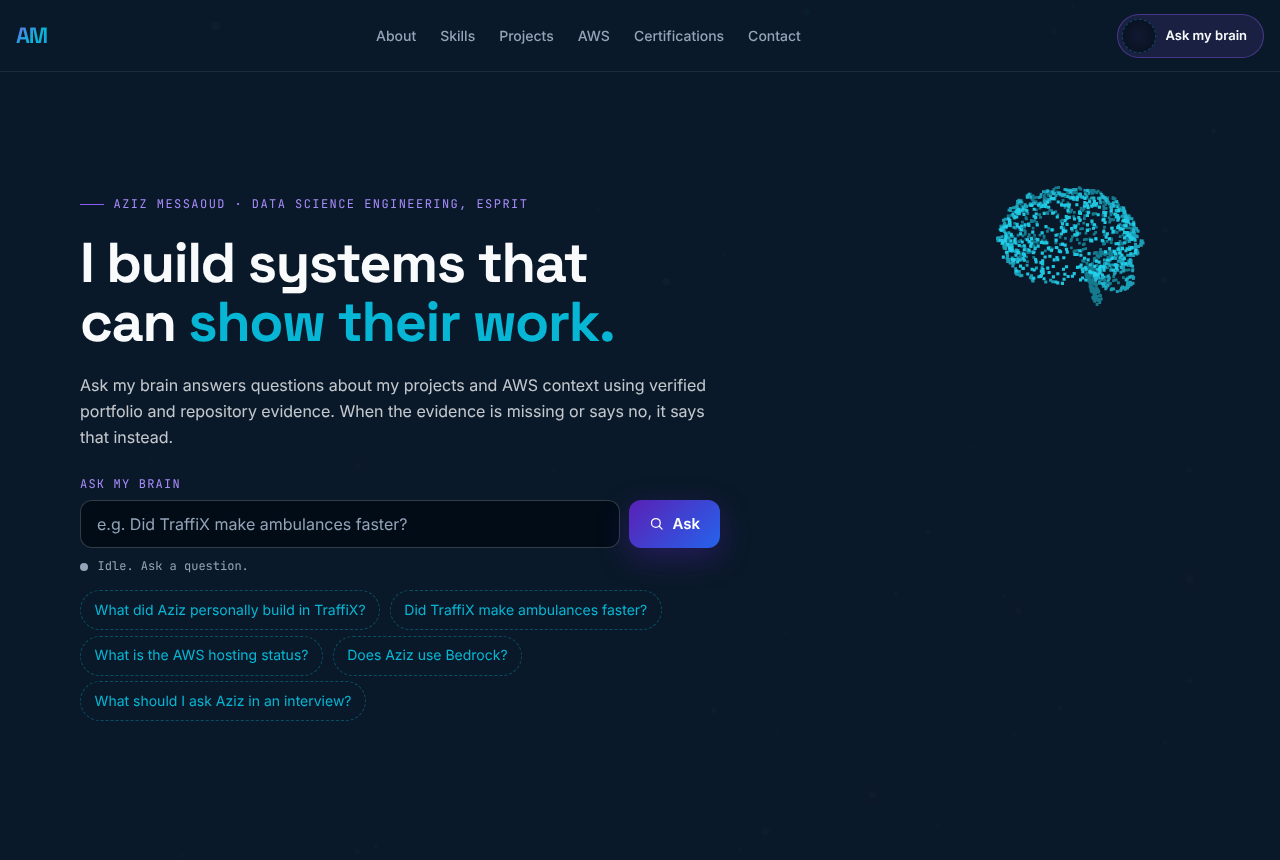
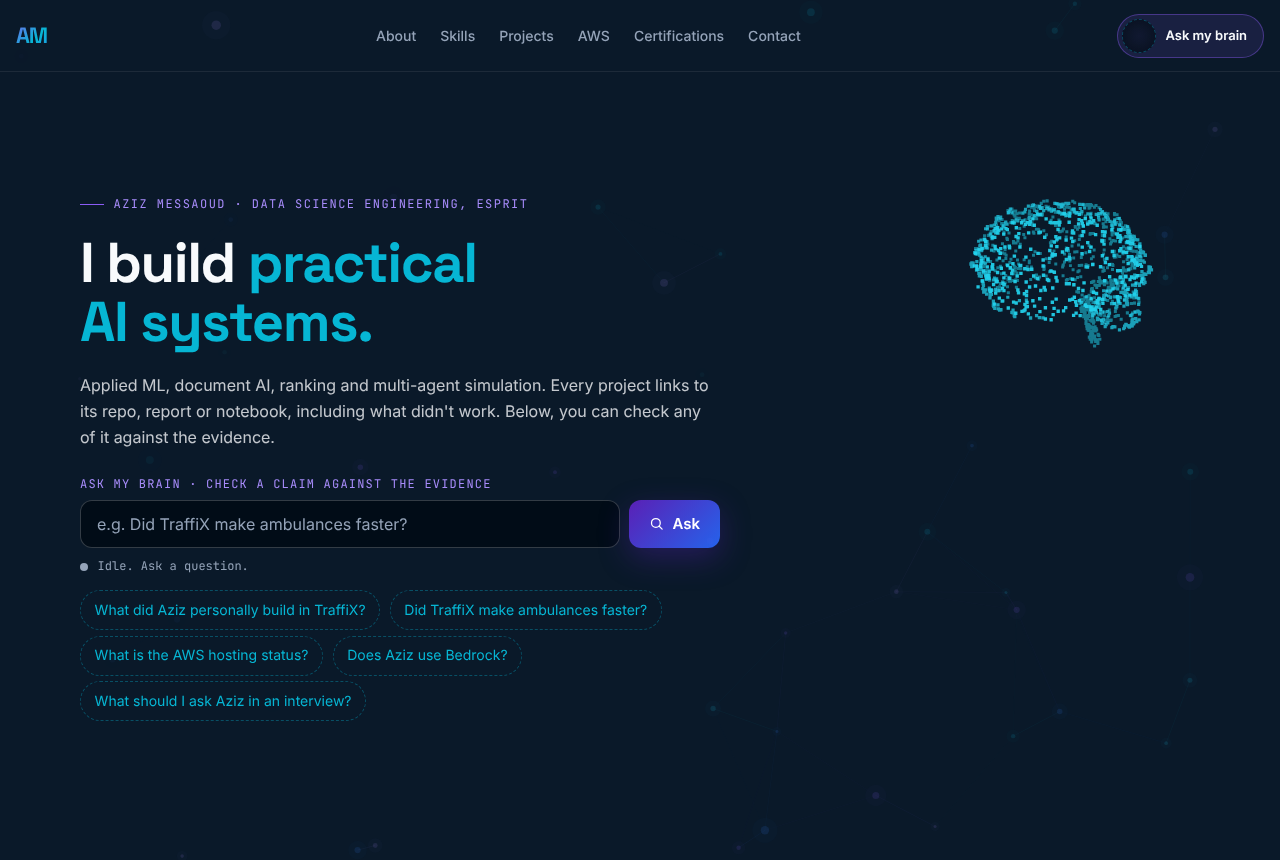
Hero leads with what I do and the evidence trail; hero text no longer selects when interacting
Claude-Session: https://claude.ai/code/session_01CPfrMnpMwkZ1yM78Z6sMH9

diff --git a/tests/e2e/site.spec.ts b/tests/e2e/site.spec.ts
@@ -386,8 +386,8 @@ const status = (page: Page) => page.locator(".ask-status");
 
 test("hero: the first screen says what the site is and offers the question box", async ({ page }) => {
   await page.goto("/");
-  await expect(page.getByRole("heading", { level: 1 })).toContainText("I build systems that can show their work.");
-  await expect(page.locator(".hero-lead")).toContainText("verified portfolio and repository evidence");
+  await expect(page.getByRole("heading", { level: 1 })).toContainText("I build practical AI systems.");
+  await expect(page.locator(".hero-lead")).toContainText("including what didn't work");
   for (const name of ["About", "Skills", "Projects", "Contact"]) await expect(page.locator("nav[aria-label=Main] a", { hasText: new RegExp(`^${name}$`) })).toBeAttached();
   await expect(page.locator("#hero-ask")).toBeVisible();
 });
@@ -500,5 +500,17 @@ test("the AWS section says not deployed and lists services as planned only", asy
   for (const svc of ["Amazon Bedrock", "AWS Lambda", "Amazon API Gateway"]) await expect(sec).toContainText(svc);
   await expect(sec.getByRole("heading", { name: "Verified" })).toBeVisible();
   await expect(sec.locator("a[href$='amplify.yml']")).toHaveCount(1);
+});
+
+test("interacting with the animation never highlights the hero text, but the question box stays selectable", async ({ page }, info) => {
+  test.skip(info.project.name === "mobile", "mouse interaction");
+  await page.goto("/");
+  await page.waitForTimeout(1200);
+  await page.locator(".hero-h1").dblclick();
+  await page.mouse.move(100, 300); await page.mouse.down(); await page.mouse.move(600, 420, { steps: 8 }); await page.mouse.up();
+  expect(await page.evaluate(() => String(getSelection()))).toBe("");
+  await page.locator("#hero-ask").fill("hello brain");
+  await page.locator("#hero-ask").selectText();
+  expect(await page.evaluate(() => (document.activeElement as HTMLInputElement).selectionEnd! - (document.activeElement as HTMLInputElement).selectionStart!)).toBe(11);
 });
 

diff --git a/src/sections/Hero.tsx b/src/sections/Hero.tsx
@@ -16,10 +16,10 @@ export default function Hero({ mind, setMind, reduced, onLayout }: Props) {
       <div className="hero-stage">
         <div className="hero-inner">
           <p className="eyebrow">Aziz Messaoud · Data Science Engineering, ESPRIT</p>
-          <h1 id="hero-title" className="hero-h1">I build systems that can <span className="hl">show their work.</span></h1>
+          <h1 id="hero-title" className="hero-h1">I build <span className="hl">practical AI systems.</span></h1>
           <p className="hero-lead">
-            Ask my brain answers questions about my projects and AWS context using verified portfolio and repository evidence.
-            When the evidence is missing or says no, it says that instead.
+            Applied ML, document AI, ranking and multi-agent simulation. Every project links to its repo, report or
+            notebook, including what didn't work. Below, you can check any of it against the evidence.
           </p>
           <AskPanel mind={mind} setMind={setMind} reduced={reduced} onLayout={onLayout} />
         </div>

diff --git a/src/styles/base.css b/src/styles/base.css
@@ -76,6 +76,9 @@ html.intro .hero-inner > * { opacity: 0; transform: translateY(12px); transition
 .eyebrow::before { content: ""; width: 24px; height: 1px; background: var(--violet); }
 .hero-h1 { font-family: var(--font-h); font-size: clamp(2.1rem, 4.4vw, 3.5rem); font-weight: 700; line-height: 1.05; letter-spacing: -0.025em; text-wrap: balance; margin-bottom: var(--space-lg); }
 .hl { color: var(--cyan); }
+/* Dragging or double-clicking on the animation must not highlight the headline. The question box and the answer stay selectable. */
+.hero-stage { -webkit-user-select: none; user-select: none; -webkit-touch-callout: none; }
+.hero-stage .ask-input, .hero-stage .ask-answer { -webkit-user-select: text; user-select: text; }
 .hero-lead { font-size: 16px; line-height: 1.65; color: var(--fg-lead); margin-bottom: var(--space-xl); }
 .ctas { display: flex; flex-wrap: wrap; gap: var(--space-md); }
 .hint { display: flex; flex-wrap: wrap; align-items: center; gap: var(--space-xs); margin-top: var(--space-xl); font-size: var(--text-small); }

diff --git a/src/sections/AskPanel.tsx b/src/sections/AskPanel.tsx
@@ -63,7 +63,7 @@ export default function AskPanel({ mind, setMind, reduced, onLayout }: Props) {
   return (
     <div className="ask" id="ask">
       <form className="ask-form" role="search" onSubmit={(e) => { e.preventDefault(); submit(value); }}>
-        <label htmlFor="hero-ask" className="ask-label">Ask my brain</label>
+        <label htmlFor="hero-ask" className="ask-label">Ask my brain · check a claim against the evidence</label>
         <div className="ask-row">
           <input id="hero-ask" className="ask-input" type="search" value={value} maxLength={MAX_QUESTION} autoComplete="off"
             placeholder="e.g. Did TraffiX make ambulances faster?"

diff --git a/docs/design-decisions.md b/docs/design-decisions.md
@@ -53,5 +53,6 @@
 - Retrieval card replaced (29 Oct): "Retrieval & evaluation / this site" was self-referential, so it now reads "Retrieval & LLM apps" and links to the team RAG assistant (owner: EyaLaourine, pinned to 229191a). Role wording is Aziz's own account ("worked on the RAG component"); the repo lists no contributors. Chips come from that repo's README stack section.
 - Pause button removed (29 Oct, Aziz's request). Still true: reduced-motion visitors get still frames, the loop stops when the hero is off screen, and the brain docks and goes idle. No longer true: a visitor who allows motion can't stop the hero animation (WCAG 2.2.2 "Pause, Stop, Hide" asks for that on motion lasting over 5 s). Note this in `docs/accessibility-audit.md` before submission. `scene.pause()` still exists in the code, unused.
 - Portrait added to About (copied from the old portfolio's `portrait.jpg`, resized to 480 px, 35 KB). Certifications and smaller projects now live in `content/*.yaml`; see `docs/ADDING-CONTENT.md`. The "AWS Certified" deny-list rule now applies to prose only, so a real certification entry (with its verification link) can be added.
+- Hero copy (29 Oct, after feedback that "Ask my brain" read like a product feature): the headline now leads with what I do ("I build practical AI systems.") and the evidence trail ("including what didn't work"); the question box stays, labelled as a way to check claims. Text in the hero is not selectable (so clicking the animation never highlights it); the question box and answers are.
 - Final alignment (29 Oct): the question box moved into the hero with the brain beside it; one answer engine (`src/assistant/answer.ts`) feeds both the hero panel and the terminal. Outcomes are `supported`, `contradicted`, `not_verified`, `error`. AWS facts come only from `content/aws-status.yaml`; a config file never implies a deployment and a dependency or plan never implies a service. Visual refinement was controlled, not a rebuild: no gradient headline, flatter skill cards, no hover lift; the brain, colours and type are unchanged. Bedrock, Lambda and API Gateway are planned only.
 

diff --git a/README.md b/README.md
@@ -2,7 +2,7 @@
 
 Aziz Messaoud's entry for the AWS Student Builder Challenge, "Build your tech superpower".
 
-**I build systems that can show their work.** The memorable part is **Ask my brain**: a question box in the first screen, with a neural "mind" beside it. You ask about my projects or my AWS context; it answers only from verified portfolio and repository evidence, and shows **Answer, Evidence, Limitations**. When the evidence is missing it says *Not verified* instead of guessing, and when the evidence contradicts the question (for example "did TraffiX make ambulances faster?") it says so.
+**I build practical AI systems**, and every project links to its repo, report or notebook, including what didn't work. The memorable part is **Ask my brain**: a question box in the first screen, with a neural "mind" beside it, for checking any claim against the evidence. You ask about my projects or my AWS context; it answers only from verified portfolio and repository evidence, and shows **Answer, Evidence, Limitations**. When the evidence is missing it says *Not verified* instead of guessing, and when the evidence contradicts the question (for example "did TraffiX make ambulances faster?") it says so.
 
 The mind animation shows interface state only: idle, listening, retrieving evidence, answering, uncertain, error. It does not show what a model "thinks" and it carries no confidence value. The same state is always written out as text.
 
